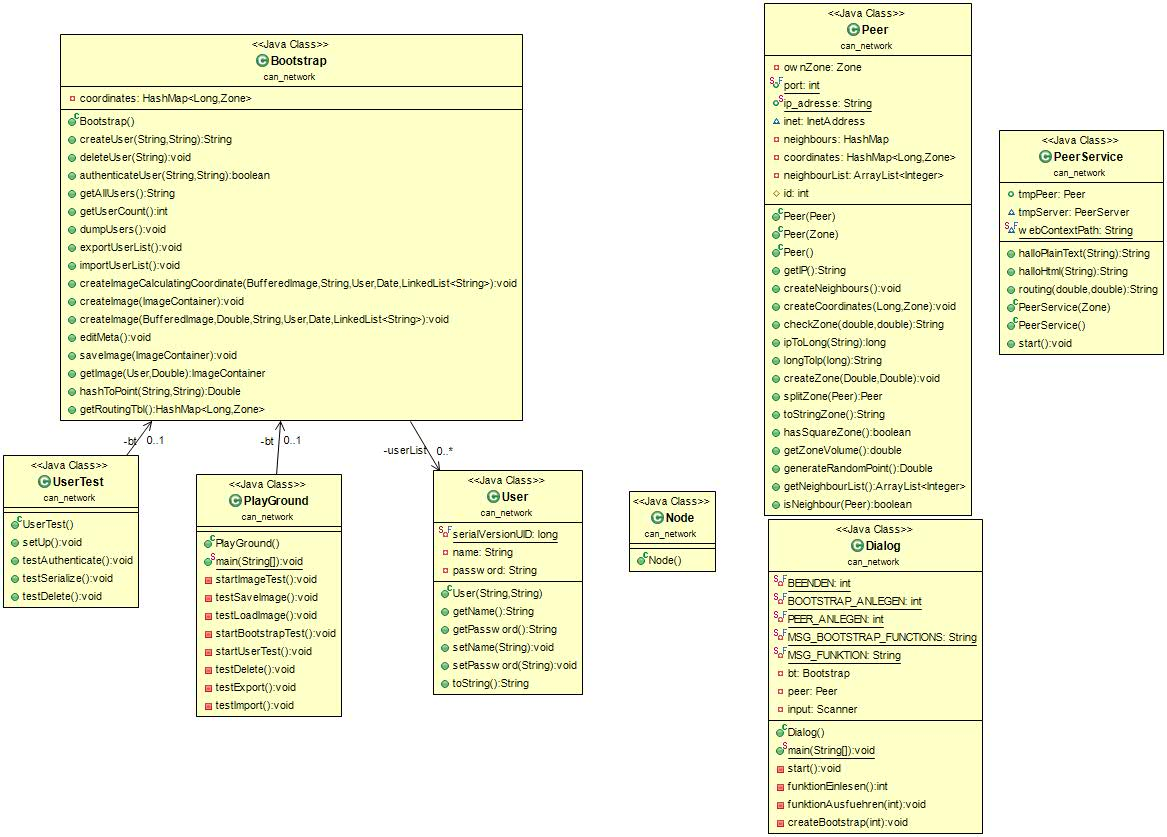
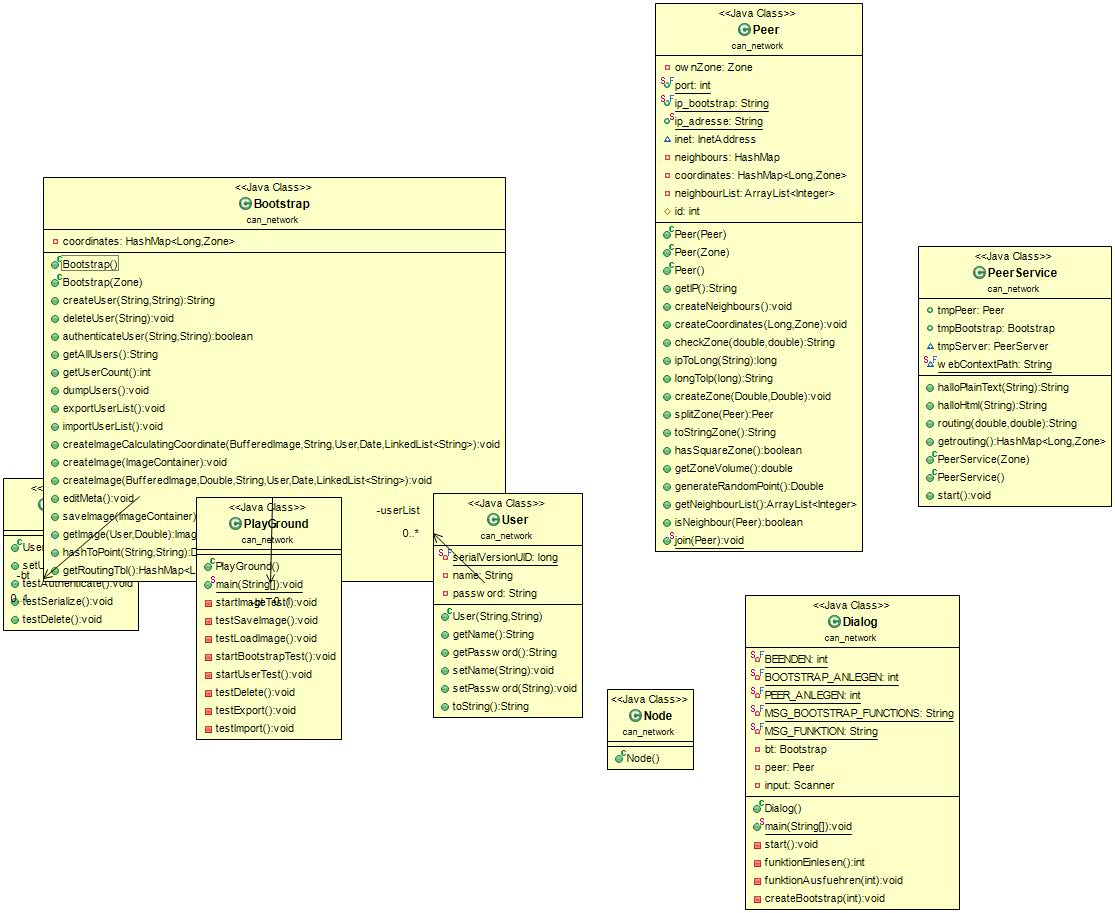
mit NewPeer_unvollstaendig

diff --git a/src/can_network/Peer.java b/src/can_network/Peer.java
@@ -35,14 +35,16 @@ public class Peer {
 	
 	//Variablen
 	private Zone ownZone;
-	public static final int port = 4434;					//TODO temporary
+	public static final int port = 4434;
+	public static final String ip_bootstrap = "192.168.2.109";
+	//TODO temporary
 	// Aktuelle IP-Adresse des Servers
 
 	public  static String ip_adresse;
 	InetAddress inet;
 	
 	private  HashMap neighbours = new HashMap();
-	private  HashMap <Long, Zone> coordinates = new HashMap <Long, Zone>();
+	private static HashMap <Long, Zone> coordinates = new HashMap <Long, Zone>();
     
 
 
@@ -51,7 +53,21 @@ public class Peer {
 	protected int id;										//TODO useful? for Neighbourlist
 
 	
-	
+	//Constructor
+		public Peer(Zone tmpZone) {
+				this.ownZone = tmpZone;
+				
+			 try {
+				this.inet = InetAddress.getLocalHost();
+			} catch (UnknownHostException e) {
+				// TODO Auto-generated catch block
+				e.printStackTrace();
+			}
+			 System.out.println(inet.getHostAddress());
+			//ip_adresse = this.inet.toString();
+				
+			
+		}
 	//Constructor
 	/**
 	 * Creates a new Peer in oldPeer's Zone
@@ -68,21 +84,7 @@ public class Peer {
 		
 	}
 	
-	//Constructor
-	public Peer(Zone tmpZone) {
-			this.ownZone = tmpZone;
-			
-		 try {
-			this.inet = InetAddress.getLocalHost();
-		} catch (UnknownHostException e) {
-			// TODO Auto-generated catch block
-			e.printStackTrace();
-		}
-		 System.out.println(inet.getHostAddress());
-		//ip_adresse = this.inet.toString();
-			
-		
-	}
+	
 
 	public Peer() {
 			
@@ -154,6 +156,8 @@ public class Peer {
 			
 			return ausgabe_ip;
 		}
+	
+
 	
 	/**
 	 * Convert a IP-Address(String) to long
@@ -276,6 +280,22 @@ public class Peer {
     	
     	
     }
+    
+	/**
+	 * Send a request to Bootstrap to join a new Peer
+	 * @param newPeer peer-object of the new Peer
+	 */
+	public static void join(Peer newPeer) {
+		String webContextPath="getroutingTbl";
+		Client c = ClientBuilder.newClient();
+		String baseUrl = "http://"+ ip_bootstrap+":4434/start/getroutingTbl";
+		WebTarget  target = c.target( baseUrl );
+		coordinates = (target.path(webContextPath).request().get(HashMap.class));
+/*
+	    ausgabe_ip = (target.path(webContextPath).queryParam("x",x).queryParam("y", y).request( MediaType.TEXT_PLAIN ).get( String.class ));
+	    System.out.println( target.path( webContextPath ));
+	*/	
+	}
    
 
 }

diff --git a/src/can_network/Bootstrap.java b/src/can_network/Bootstrap.java
@@ -15,7 +15,7 @@ import java.util.*;
 
 import javax.imageio.ImageIO;
 
-import test.Zone;
+
 
 public class Bootstrap extends Peer {
 
@@ -47,7 +47,7 @@ public class Bootstrap extends Peer {
 		 * 
 		 * 
 		 */
-		
+	
 		//Create or load UserList
 		userList = new LinkedList<User>();
 		try {
@@ -61,6 +61,9 @@ public class Bootstrap extends Peer {
 		//Create a new Zone
 		createZone(new Point2D.Double(0.0, 0.0), new Point2D.Double(1.0, 1.0));
 		id = 0;					//Bootstrap has always ID 0 TODO: Deprecated
+	}
+	public Bootstrap(Zone tmpZone) {
+		super(tmpZone);
 	}
 
 	/**
@@ -324,10 +327,15 @@ public class Bootstrap extends Peer {
 		return coordinatePoint;
 	}
 	
+	/**
+	 *  The sends coordinates Hashmap of the Bootstrap
+	 * @return coordinates
+	 */
 	public HashMap<Long, Zone> getRoutingTbl () {
 		return coordinates;
 		
 	}
+
 
 
 }
